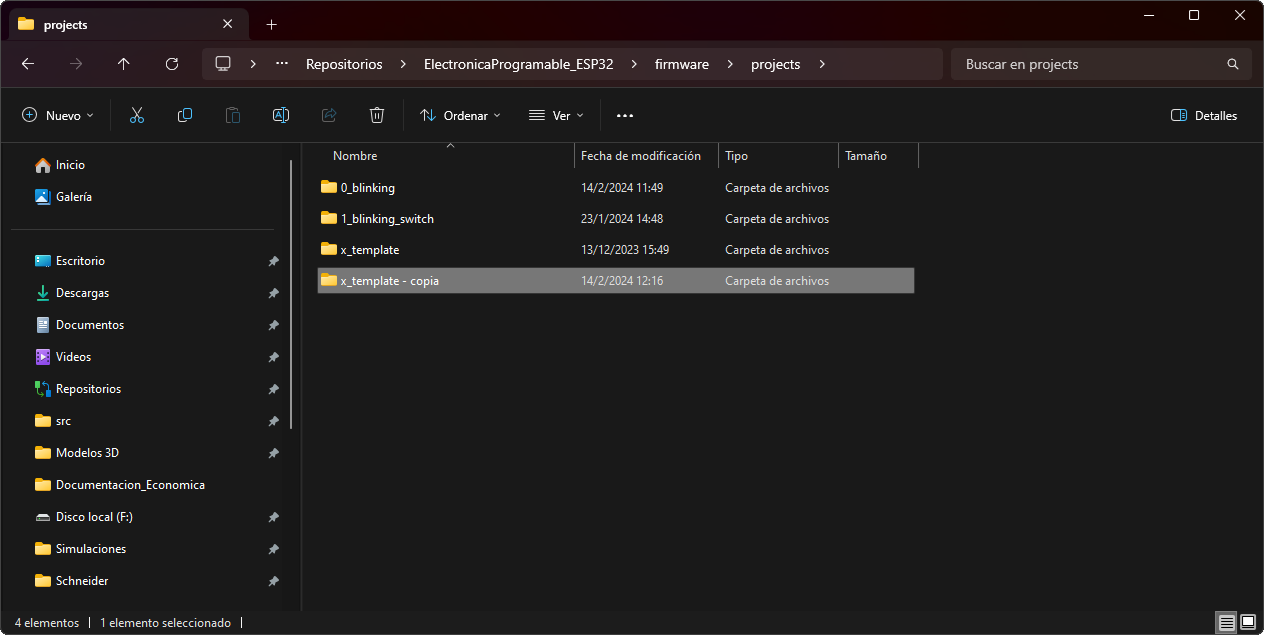
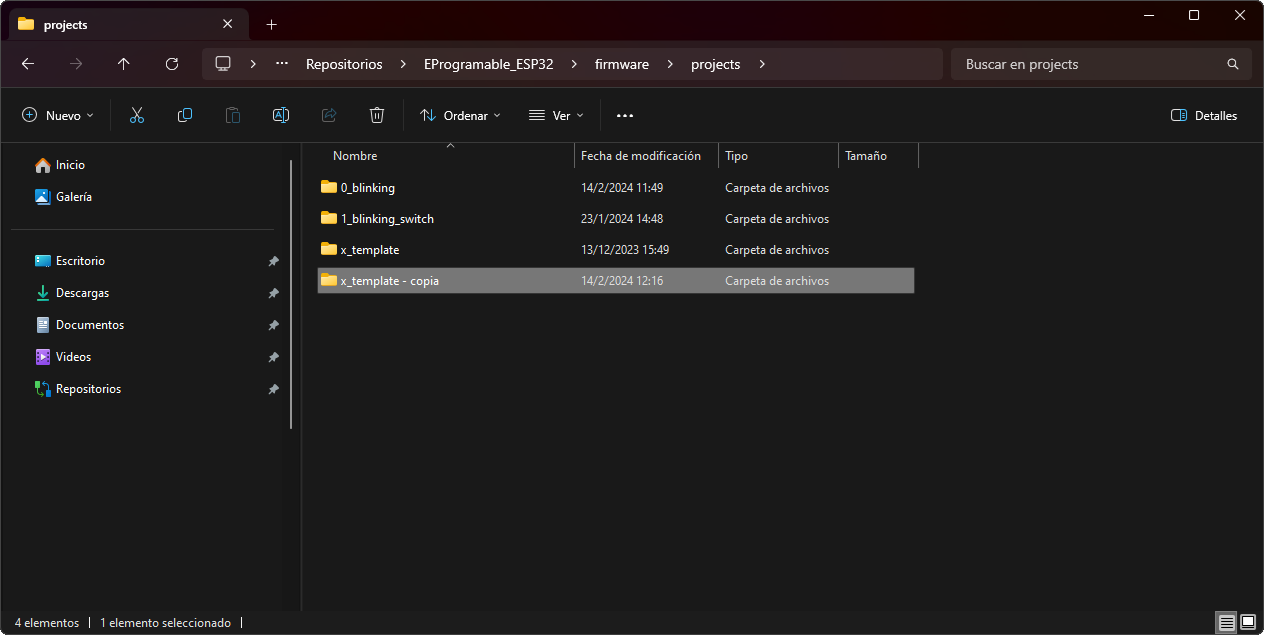
Se sube un nuevo instructivo para creación de Proyectos Nuevos.

diff --git a/documentación/proyecto_nuevo.md b/documentación/proyecto_nuevo.md
@@ -1,0 +1,46 @@
+# Proyecto Nuevo 
+
+A continuación se detallan los pasos para crear un nuevo proyecto a partir del proyecto x_template.
+
+## Crear proyecto nuevo
+
+1. Desde su explorador de archivos realice una copia de la carpeta `x_template` (ubicada en `C:/Repositorios/EProgramable_ESP32/firmware/projects/`) 
+y renómbrela según el proyecto a realizar (en este ejemplo se reemplazará `x_template - copia` por `guia1_ej2`).
+
+	![proyecto1](./imágenes/proyecto1.png)
+	
+2. En **Visual Studio Code**, desde el menú `File` seleccione la opción `Add Folder to Workspace`.
+
+	![proyecto2](./imágenes/proyecto2.png)
+	
+3. Seleccione la carpeta creada.
+
+	![proyecto3](./imágenes/proyecto3.png)
+	
+4. Se le mostrará una ventana preguntando si confía en los autores de estos archivos. Seleccione la opción `Yes, I trust the authors`.
+
+5. En la barra del Explorador (izquierda de la ventana) se le mostrará el nuevo proyecto agregado.
+
+	![proyecto4](./imágenes/proyecto4.png)
+	
+6. Abra el archivo `CMakeLists.txt` ubicado en la carpeta `guia1_ej2` y modifique el nombre del proyecto en la línea 9 (en este caso reemplazar `project(x_template)` por `project(guia1_ej2)`).  
+
+	![proyecto6](./imágenes/proyecto6.png)
+
+> [!IMPORTANT]
+> No repetir nombres entre proyectos distintos, ya que puede traer problemas a la hora de Depurar (el programa utilzia el nombre del proyecto para nombrar los binarios creados en el proceso de compilación).
+
+7. Para comenzar a trabajar con el mismo, primero debe seleccionarlo como proyecto activo (presione el botón ![](https://raw.githubusercontent.com/microsoft/vscode-icons/2ca0f3225c1ecd16537107f60f109317fcfc3eb0/icons/dark/file-submodule.svg) (`ESP-IDF: Current Project`) y luego seleccione `guia1_ej2`).
+
+	![proyecto5](./imágenes/proyecto5.png)
+
+8. OPCIONAL: También se puede cambiar el nombre del archivo fuente del proyecto (en este caso el archivo `x_template.c`) que se encuentra en la carpeta `main`, haciendo click derecho sobre el nombre del mismo y presionando en `Rename...`. 
+
+	![proyecto7](./imágenes/proyecto7.png)
+
+    ⚠ **Importante:** Asegúrese que luego de cambiar el nombre del archivo, también se haya actualizado el contenido del `CMakeLists.txt` ubicado en la carpeta `main` con el nuevo nombre elegido. De no ser así, modifíquelo manualmente.
+
+    ![proyecto8](./imágenes/proyecto8.png)
+
+> [!NOTE]
+> Cada proyecto tiene dos archivos `CMakeLists.txt` distintos: uno en la raiz del proyecto (`./guia1_ej2/CMakeLists.txt`) donde se modifica el nombre del proyecto, y otro dentro de la sub-carpeta `main` (`./guia1_ej2/main/CMakeLists.txt`) donde se modifica el nombre del archivo fuente (`.c`).

diff --git a/documentación/compilación.md b/documentación/compilación.md
@@ -88,28 +88,3 @@ Además se puede observar en la barra del Explorador que se ha creado una nueva 
 	![workspace7](./imágenes/workspace7.png)
 	
 Una vez finalizada la compilación del proyecto puede continuar con el instructivo de [Grabación y Depuración](./depuración.md).
-
-## Crear proyecto nuevo
-
-1. Desde su explorador de archivos realice una copia de la carpeta `x_template` (ubicada en `C:/Repositorios/ElectronicaProgramable_ESP32/firmware/projects/`) 
-y renómbrela según el proyecto a realizar (en este ejemplo se reemplazará `x_template - copia` por `guia1_ej2`).
-
-	![proyecto1](./imágenes/proyecto1.png)
-	
-2. En **Visual Studio Code**, desde el menú `File` seleccione la opción `Add Folder to Workspace`.
-
-	![proyecto2](./imágenes/proyecto2.png)
-	
-3. Seleccione la carpeta creada.
-
-	![proyecto3](./imágenes/proyecto3.png)
-	
-4. Se le mostrará una ventana preguntando si confía en los autores de estos archivos. Seleccione la opción `Yes, I trust the authors`.
-
-5. En la barra del Explorador (izquierda de la ventana) se le mostrará el nuevo proyecto agregado.
-
-	![proyecto4](./imágenes/proyecto4.png)
-	
-6. Para comenzar a trabajar con el mismo, primero debe seleccionarlo como proyecto activo (presione el botón ![](https://raw.githubusercontent.com/microsoft/vscode-icons/2ca0f3225c1ecd16537107f60f109317fcfc3eb0/icons/dark/file-submodule.svg) (`ESP-IDF: Current Project`) y luego seleccione `guia1_ej2`).
-
-	![proyecto5](./imágenes/proyecto5.png)

diff --git a/README.md b/README.md
@@ -11,6 +11,7 @@ El mismo está pensado para ser utilizado con la placa ESP-EDU, una placa diseñ
 1. [Instalación](./documentación/instalación.md)
 2. [Compilación](./documentación/compilación.md)
 3. [Grabación y Depuración](./documentación/depuración.md)
+3. [Proyecto nuevo](./documentación/proyecto_nuevo.md)
 4. [Detalles del Hardware](./documentación/hardware.md) 
 
 ## Enlaces de Interés

diff --git a/documentación/depuración.md b/documentación/depuración.md
@@ -74,3 +74,5 @@ En el mismo se muestran los mensajes enviados utilizando las funciones `printf()
 y modificar la línea `"idf.portWin": "COM14",` colocando el número de puerto COM correspondiente. 
 
     ![monitor4](./imágenes/monitor4.png)
+
+Ahora ya puede empezar a trabajar sobre un nuevo proyecto, siguiendo el instructivo [Proyecto Nuevo](./proyecto_nuevo.md).
